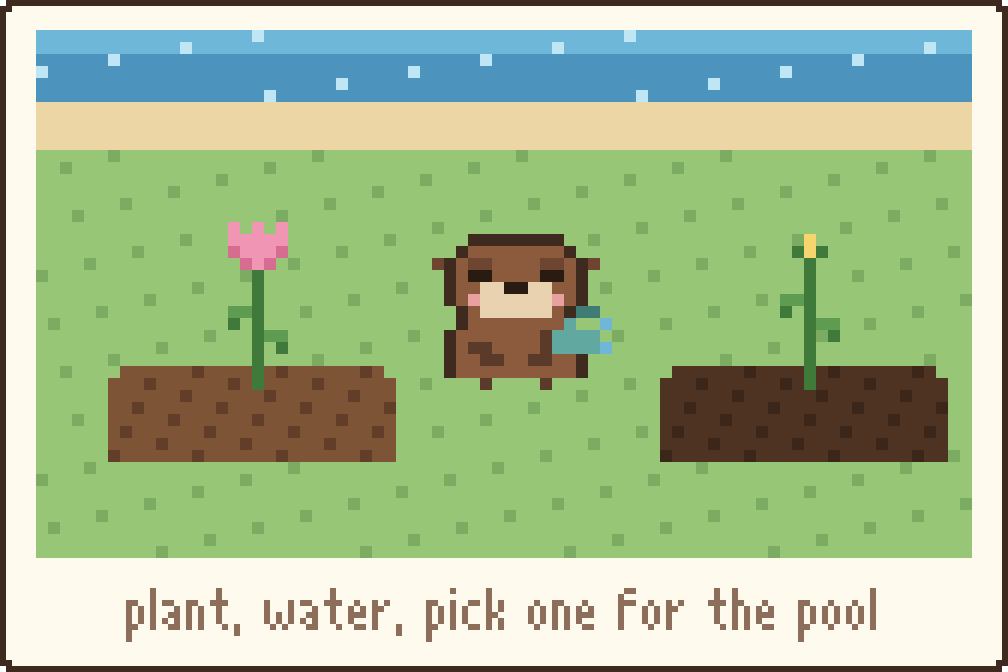
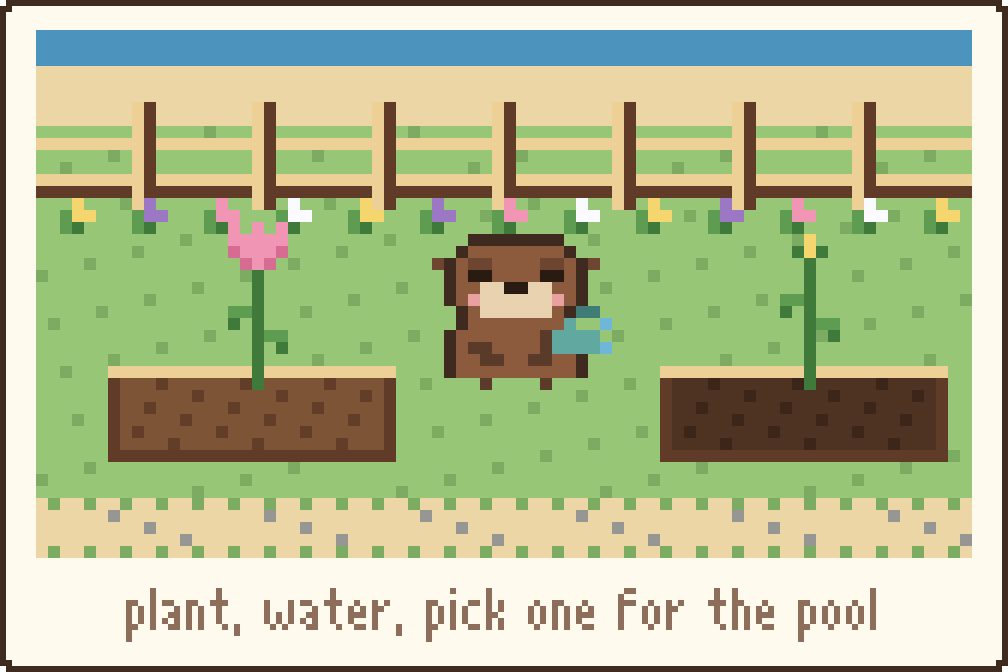
v2.3.0: Pibbo's garden
Version 2.3.0.

diff --git a/CLAUDE.md b/CLAUDE.md
@@ -626,7 +626,7 @@ Code: `Spikes/08-call-signal/` (`run.sh [seconds]` wraps it in its own ad-hoc-si
 2. `swift test` (all pass) → `xcodegen generate` → Release build → check `CFBundleShortVersionString` in the built Info.plist.
 3. Launch the Release build; after Pibbo hides, `top -c d -pid <pid>` should show ~0 % CPU and ~0 idle wakeups.
 4. Commit with a summary message → push `main` → annotated tag `vX.Y.Z` → push the tag → `python3 Tools/package_dmg.py` → `gh release create vX.Y.Z dist/PibbosTidepool-X.Y.Z.dmg` with casual emoji notes (point to the README's Open Anyway steps until a notarized build exists; credit Suno / MET Norway).
-5. Releases so far: v0.1.0 app shell · v0.2.0 actions, flower, pixel UI · v0.3.0 themed radio, ticker, drag · v0.3.1 mouse play · v0.3.2 holiday outfits · v0.3.3 smooth transitions · v0.4.0 second theme "Solo Float", nodding to the beat · v0.4.1 Halloween decor · v0.5.0 water light by time of day · v0.6.0 third theme "Pibbo in the City", theme props · v0.7.0 the meadow, messages in a bottle · v0.8.0 shooting stars, moonlight, wake fix for time of day · v1.0.0 "Pibbo's Tidepool": visitors, the seagull's gift, weather in the pool, quiet during calls, final bundle ID · v1.1.0 winter holiday decor, rainbow after rain, dream bubbles · v1.2.0 fourth theme "Pixel Tide", playing the handheld, the secret flip, seasonal drifting · v1.2.1 sturdiness: effects obey state, radio never stuck, full skin validation, weather Expires and time zones, CI · v1.3.0 games with Pibbo: `Game time 🎮`, Shell Catch · v1.4.0 Pibbo notices you: hello, good morning, welcome back, night owl · v2.0.0 seasons and sounds: the pool dresses for the season, tide sounds, Bubble Pop, new-season / first-snow / together hellos, the golden shell · v2.1.0 "Paws on Keys" with Pibbo at the toy keyboard, "Pibbo in the City" removed, smoother animations (fading flower, prop in-betweens, fade-ins) · v2.2.0 "Driftwood Strings", moves while listening (7 general + 6 per album, 37 in all) · v2.2.1 a click during a call brings Pibbo up to whisper "Shh, quiet time", then he dives again.
+5. Releases so far: v0.1.0 app shell · v0.2.0 actions, flower, pixel UI · v0.3.0 themed radio, ticker, drag · v0.3.1 mouse play · v0.3.2 holiday outfits · v0.3.3 smooth transitions · v0.4.0 second theme "Solo Float", nodding to the beat · v0.4.1 Halloween decor · v0.5.0 water light by time of day · v0.6.0 third theme "Pibbo in the City", theme props · v0.7.0 the meadow, messages in a bottle · v0.8.0 shooting stars, moonlight, wake fix for time of day · v1.0.0 "Pibbo's Tidepool": visitors, the seagull's gift, weather in the pool, quiet during calls, final bundle ID · v1.1.0 winter holiday decor, rainbow after rain, dream bubbles · v1.2.0 fourth theme "Pixel Tide", playing the handheld, the secret flip, seasonal drifting · v1.2.1 sturdiness: effects obey state, radio never stuck, full skin validation, weather Expires and time zones, CI · v1.3.0 games with Pibbo: `Game time 🎮`, Shell Catch · v1.4.0 Pibbo notices you: hello, good morning, welcome back, night owl · v2.0.0 seasons and sounds: the pool dresses for the season, tide sounds, Bubble Pop, new-season / first-snow / together hellos, the golden shell · v2.1.0 "Paws on Keys" with Pibbo at the toy keyboard, "Pibbo in the City" removed, smoother animations (fading flower, prop in-betweens, fade-ins) · v2.2.0 "Driftwood Strings", moves while listening (7 general + 6 per album, 37 in all) · v2.2.1 a click during a call brings Pibbo up to whisper "Shh, quiet time", then he dives again · v2.3.0 Pibbo's garden: plant, water and pick flowers in a window of their own; the picked flower goes into the pool's pot.
 
 ## 16. Open items
 
